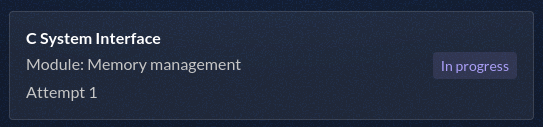
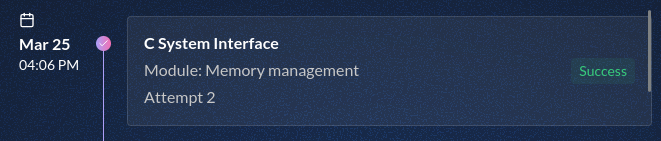
Update Exos

diff --git a/README.md b/README.md
@@ -7,7 +7,7 @@ Bienvenue sur mon dépôt regroupant mes exercices et projets réalisés à **42
 > [!NOTE]
 > Quelques jours apres ma piscine, je risque de faire un article sur mon [site](https://syxpi.fr), Je vous conseille de regarder regulierement 👀
 ## 📊 Mon État d'Avancement
-* **Niveau Actuel :** `Level 3 [55/100 XP]`
+* **Niveau Actuel :** `Level 3 [75/100 XP]`
 
 ![Level](./Images/Level.png)
 
@@ -97,7 +97,7 @@ Voici l'historique de mes validations. Chaque "Attempt" représente une étape d
 | **[C Simple strings](./Memory%20Management/C-Simple-Strings/)** | 3 Attempts | ✅ Success | 10/03/2026 17h49 - 11/03/2026 11h04 |
 | **[C Function Pointers](./Memory%20Management/C-Function-Pointers/)** | 4 Attempts | ✅ Success | 16/03/2026 13h24 - 19/03/2026 12h22 |
 | **[C Memory Management](./Memory%20Management/C-Memory-Management/)** | 5 Attempts | ✅ Success | 19/03/2026 14h07 - 23/03/2026 20h18 |
-| **[C System Interface](./Memory%20Management/C-System-Interface/)** | [En cours] | ⏳ | 19/03/2026 12h24 - ??? |
+| **[C System Interface](./Memory%20Management/C-System-Interface/)** | 2 Attempts | ✅ Success | 19/03/2026 12h24 - 25/03/2026 16h09 |
 
 **Tout mes Tries Reussis** :
 
@@ -161,6 +161,8 @@ Le code est organisé par module, tel que vu dans mon architecture locale :
 │   ├── Data Structures
 │   ├── Imperative Programming
 │   ├── Memory Management
+│   ├── System Interface
+│   ├── Compilation and Preprocessing
 │   ├── Norminette # Documentation de comment fonctionne la Norme
 │   ├── Shell
 │   └── Tutorial
